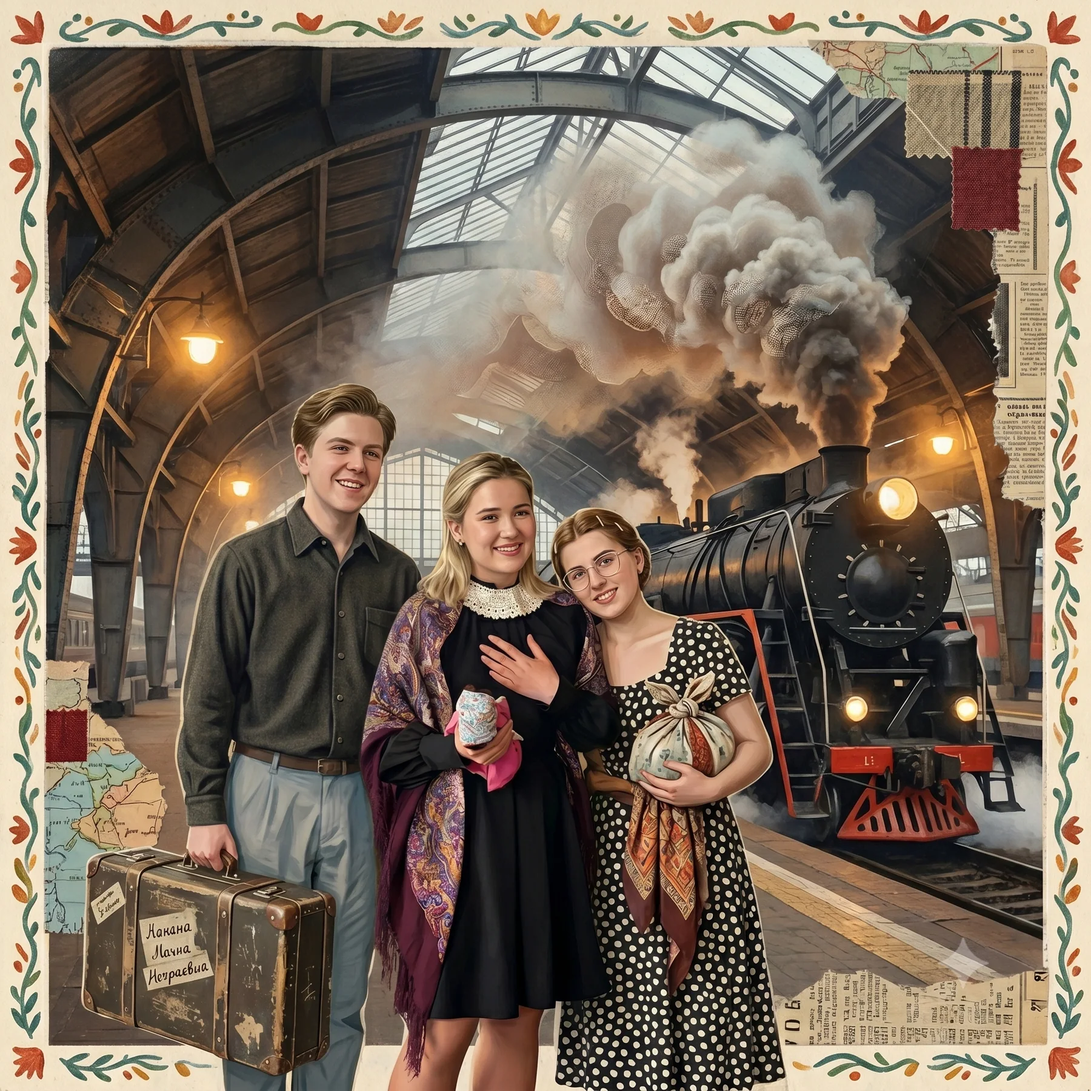
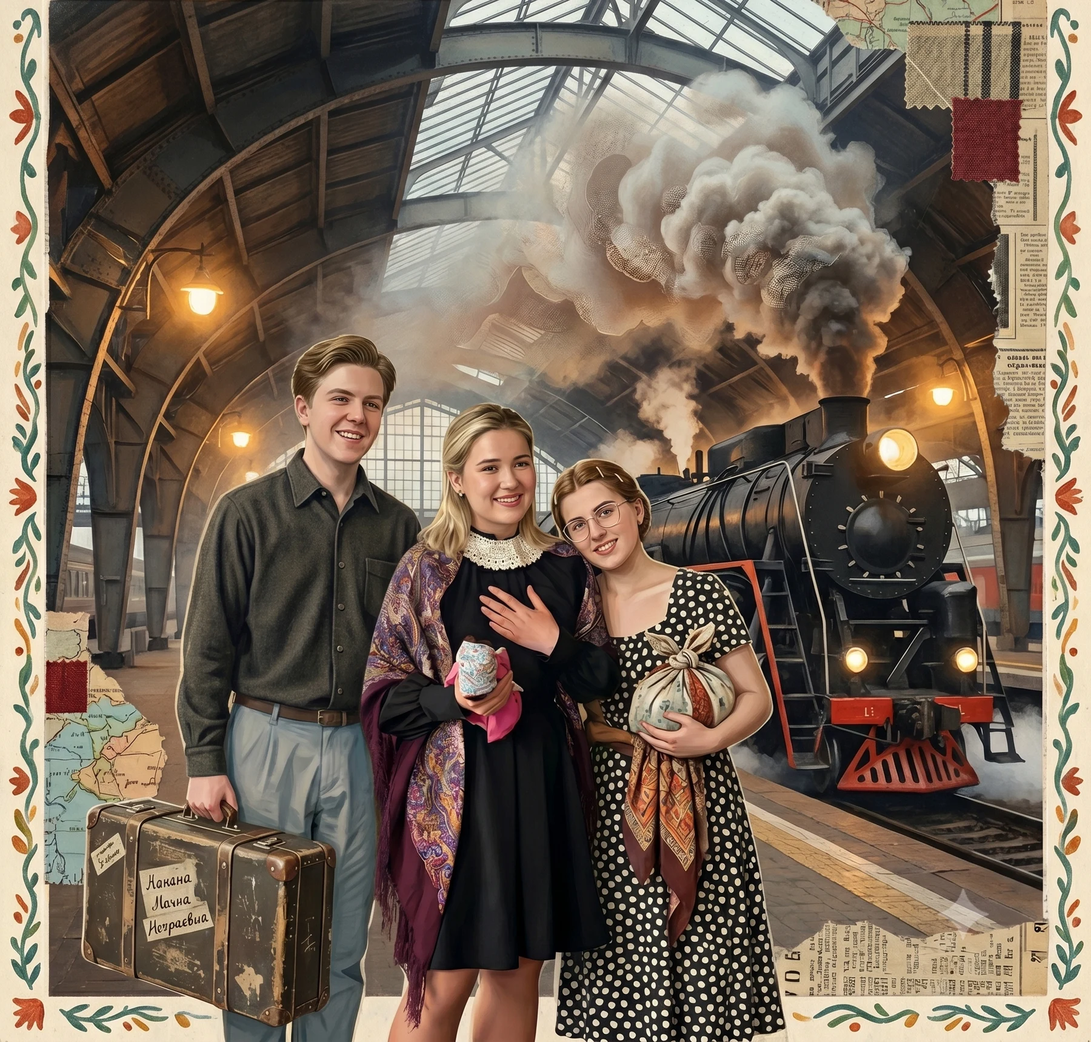
Polish Etudy special hero presentation

diff --git a/site/src/styles/global.css b/site/src/styles/global.css
@@ -3767,6 +3767,12 @@ summary {
   max-width: 15.5rem;
 }
 
+.hero-showcase--special-event[data-hero-kind="myth"][data-hero-has-backdrop="true"]::before {
+  background:
+    linear-gradient(90deg, rgba(18, 14, 12, 0.8) 0%, rgba(18, 14, 12, 0.58) 30%, rgba(18, 14, 12, 0.22) 52%, rgba(18, 14, 12, 0.04) 78%),
+    linear-gradient(180deg, rgba(18, 14, 12, 0.06) 0%, rgba(18, 14, 12, 0.28) 100%);
+}
+
 @media (max-width: 759px) {
   .hero-showcase--special-event[data-hero-kind="myth"][data-hero-has-backdrop="true"] {
     min-height: 34.2rem;
@@ -3775,7 +3781,7 @@ summary {
 
   .hero-showcase--special-event[data-hero-kind="myth"][data-hero-has-backdrop="true"]::before {
     background:
-      linear-gradient(180deg, rgba(18, 14, 12, 0.98) 0%, rgba(18, 14, 12, 0.96) 55%, rgba(18, 14, 12, 0.18) 74%, rgba(18, 14, 12, 0.04) 100%);
+      linear-gradient(180deg, rgba(18, 14, 12, 0.98) 0%, rgba(18, 14, 12, 0.94) 28%, rgba(18, 14, 12, 0.4) 35%, rgba(18, 14, 12, 0.12) 47%, rgba(18, 14, 12, 0.02) 100%);
   }
 
   .hero-showcase--special-event[data-hero-kind="myth"][data-hero-has-backdrop="true"]::after {
@@ -3786,13 +3792,13 @@ summary {
 
   .hero-showcase--special-event .hero-showcase__backdrop {
     inset: auto 0 0;
-    height: 59%;
-    object-position: 50% 44%;
+    height: 66%;
+    object-position: 50% 18%;
   }
 
   .hero-showcase--special-event[data-hero-kind="myth"][data-hero-has-backdrop="true"] .hero-showcase__card {
     padding-top: 1.5rem;
-    padding-bottom: 9.8rem;
+    padding-bottom: 8.7rem;
   }
 
   .hero-showcase--special-event[data-hero-kind="myth"][data-hero-has-backdrop="true"] .hero-showcase__content {
@@ -3800,15 +3806,27 @@ summary {
   }
 
   .hero-showcase--special-event[data-hero-kind="myth"][data-hero-has-backdrop="true"] .hero-showcase__body {
-    max-width: 15.5rem;
+    max-width: 17.2rem;
+    font-size: 0.92rem;
+    line-height: 1.34;
   }
 
   .hero-showcase--special-event[data-hero-kind="myth"][data-hero-has-backdrop="true"] .hero-showcase__actions {
     align-self: flex-end;
+    flex-direction: column;
+    flex-wrap: nowrap;
     align-items: flex-end;
-    width: min(62%, 15rem);
-    margin-top: 0.75rem;
+    width: min(66%, 15.4rem);
+    margin-top: 0.62rem;
+    margin-left: auto;
     padding-top: 0;
+    text-align: right;
+  }
+
+  .hero-showcase--special-event[data-hero-kind="myth"] .hero-showcase__event-link,
+  .hero-showcase--special-event[data-hero-kind="myth"] .hero-showcase__next {
+    width: 100%;
+    justify-content: flex-end;
     text-align: right;
   }
 }

diff --git a/Исходные данные/Спецмероприятия/specialregistration.md b/Исходные данные/Спецмероприятия/specialregistration.md
@@ -239,10 +239,12 @@ Live-проверка визуала `2026-06-09` после деплоя loader
 - Hero-блок со спецмероприятием на главной странице должен использовать подготовленное изображение `etudy-toy-vesny-immersive-hero` как фоновую подложку, а CTA должен честно отражать live-доступность заявки: при доступных датах вести к форме заявки, при закрытии всех дат быть визуально disabled и не обещать подачу заявки. — Статус: `Не подтверждено пользователем`
 - Текст и CTA в hero-блоке со спецмероприятием не должны перекрывать лица персонажей на изображении; desktop и mobile композиции нужно проверять отдельно. — Статус: `Не подтверждено пользователем`
 - В мобильной версии hero-блока со спецмероприятием кнопки можно выравнивать вправо и частично накладывать на верхнюю дымовую часть изображения, чтобы сократить высоту блока и поднять картинку; при этом кнопки не должны перекрывать лица персонажей, сам паровоз и его прожектор, а между текстом и головами персонажей должен оставаться безопасный, но не чрезмерный отступ. — Статус: `Не подтверждено пользователем`
-- Hero-блок со спецмероприятием должен делать смысловой акцент на формулировке `Иммерсивный спектакль на Южном вокзале`, а CTA должен отвечать на пользовательский вопрос `как попасть`, сохраняя честное состояние доступности заявки. — Статус: `Не подтверждено пользователем`
+- Hero-блок со спецмероприятием должен делать смысловой акцент на формулировке `Иммерсивный спектакль на Южном вокзале на основе реальных историй переселенцев`, а CTA должен отвечать на пользовательский вопрос `как попасть`, сохраняя честное состояние доступности заявки. — Статус: `Не подтверждено пользователем`
+- Hero-блок со спецмероприятием не должен выносить условия участия фразой `Попасть можно...` в body-текст; условия участия раскрываются через CTA и внутренний блок заявки. — Статус: `Не подтверждено пользователем`
 - Внутри пользовательского пути к заявке нужно явно объяснить: попасть на спектакль могут те, кто активно ходил на события фестиваля; если 5 посещений еще не набрано, еще не поздно выбрать события в программе и прийти; после 5 посещений нужно вернуться к заявке на розыгрыш; подать заявку можно до `24 июня 2026`. — Статус: `Не подтверждено пользователем`
 - Preview-форма должна визуально соответствовать основному сайту фестиваля: использовать фирменные шрифты, теплую бумажную палитру, мягкие карточки, понятные выбранные состояния дат и удобную мобильную компоновку. — Статус: `Не подтверждено пользователем`
 - Секретная preview-страница спектакля `Этюды той весны` должна показывать тематическое изображение спектакля как видимую фотографию в первом экране и как фоновую подложку hero-зоны; это же изображение должно быть основной фотографией события в общей ленте и на странице события. — Статус: `Не подтверждено пользователем`
+- Секретная preview-страница заявки на спектакль должна начинаться с текста о самом спектакле, а не только об условиях участия: реальные истории первых переселенцев, Южный вокзал как место памяти о начале пути, первые годы на новой земле, чувства/вера людей и взаимодействие с настоящими музейными вещами должны быть сформулированы в SSR-тексте страницы. — Статус: `Не подтверждено пользователем`
 - В карточке `Этюды той весны` в общей ленте вместо бейджа `Бесплатно` нужно показывать условие участия: `для тех кто посетил 5 и более событий фестиваля`; поверх фотографии в карточке спецмероприятия не нужно добавлять затемнение, потому что на изображении нет текста. — Статус: `Не подтверждено пользователем`
 - На странице события `Этюды той весны` основной путь пользователя должен вести к одной форме заявки на розыгрыш, а не к обычной регистрации на простое событие; состояние кнопки должно обновляться по live API спецмероприятия. — Статус: `Не подтверждено пользователем`
 - Описание события `Этюды той весны` должно быть вовлекающим и профессиональным: основываться на реальных историях первых переселенцев, роли Южного вокзала как места памяти о начале переселения, переживании первых лет на новой земле, чувствах/вере людей и взаимодействии зрителей с настоящими музейными вещами, а не реквизитом. — Статус: `Не подтверждено пользователем`
